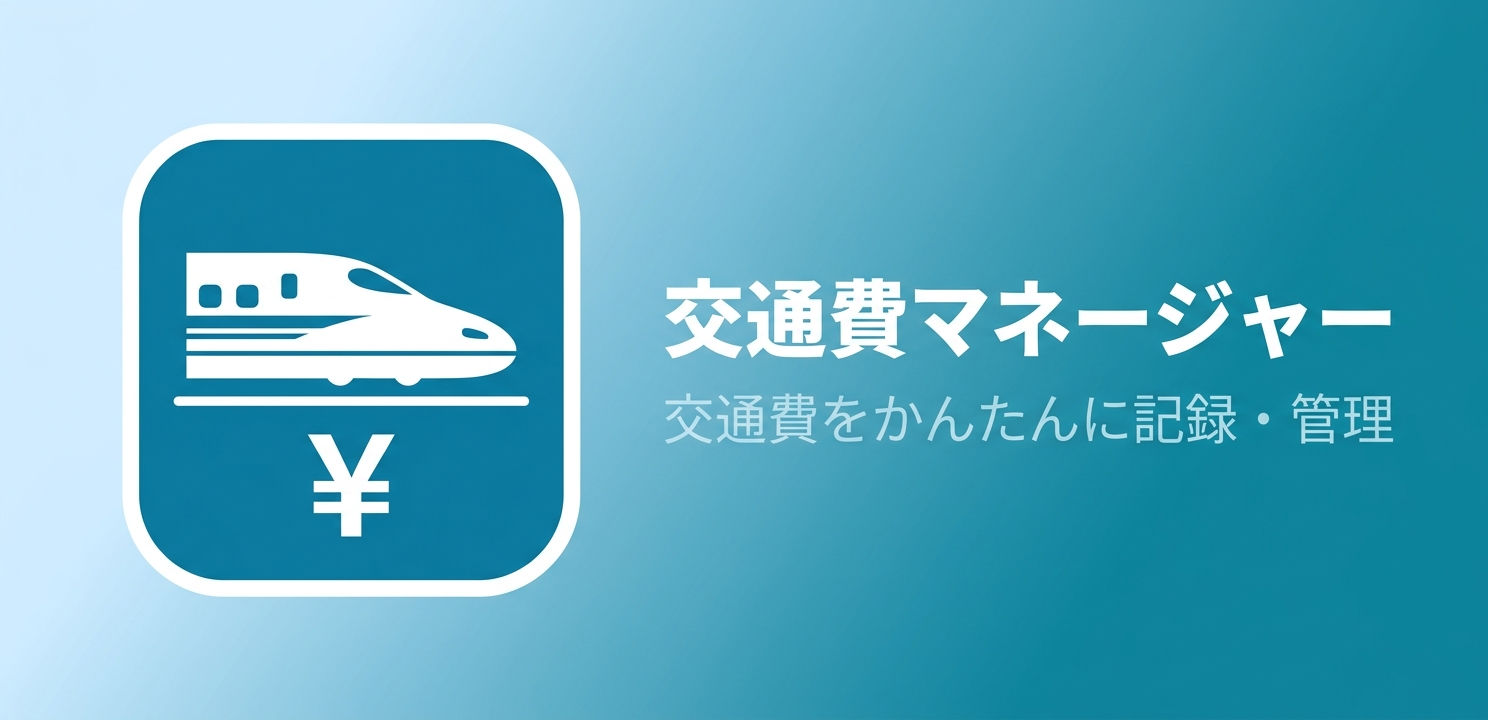
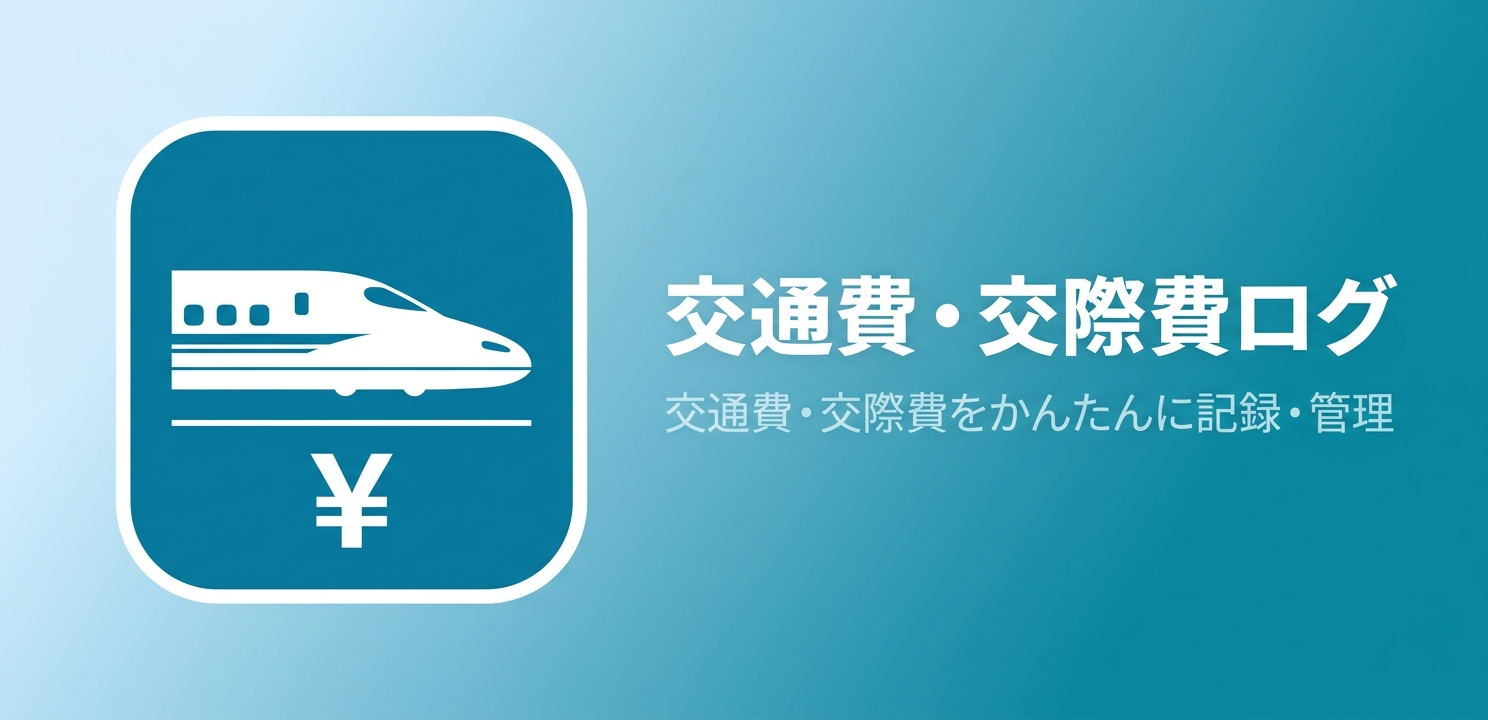
名前変更

Changed region(s): [[0.0618, 0.1528, 0.4019, 0.8556], [0.4328, 0.3667, 0.9583, 0.5194], [0.4328, 0.5194, 0.9583, 0.6417]]

diff --git a/scripts/generate-feature-graphic.js b/scripts/generate-feature-graphic.js
@@ -10,7 +10,7 @@ config({ path: resolve(__dirname, '../.env') });
 const ai = new GoogleGenAI({ apiKey: process.env.GEMINI_API_KEY });
 
 const prompt = `
-Create a feature graphic banner for "交通費マネージャー" (TransitLedger), a Japanese personal transit expense tracking app.
+Create a feature graphic banner for "交通費・交際費ログ" (TransitLedger), a Japanese personal expense tracking app for transit and entertainment expenses.
 
 Canvas: exactly 1024x500 pixels, landscape orientation.
 
@@ -18,13 +18,13 @@ Background: smooth horizontal gradient from light blue #E6F4FE on the left to te
 
 Left area (leftmost 40% of canvas, vertically centered):
   - A large rounded square (about 180x180px) with solid #0a7ea4 fill and white border (~4px)
-  - Inside the rounded square: a white flat shinkansen bullet train silhouette viewed from the side, aerodynamic nose pointing RIGHT
+  - Inside the rounded square: a white flat shinkansen bullet train silhouette viewed from the side. The train must face RIGHT — the pointed aerodynamic nose is on the RIGHT side, the tail is on the LEFT side. The train is moving rightward toward the text.
   - Below the train inside the square: a thin white horizontal line
   - Below the line: bold white ¥ symbol
 
 Right area (rightmost 55% of canvas, vertically centered, left-aligned):
-  - App name "交通費マネージャー" in large (52px) bold white sans-serif font, top line
-  - Tagline "交通費をかんたんに記録・管理" in smaller (26px) white sans-serif font, below app name, slight transparency or lighter weight
+  - App name "交通費・交際費ログ" in large (48px) bold white sans-serif font, top line
+  - Tagline "交通費・交際費をかんたんに記録・管理" in smaller (24px) white sans-serif font, below app name, slight transparency or lighter weight
 
 Style: flat design, clean, professional. No drop shadows, no complex textures. Safe zone: keep all text and logo at least 40px from any edge.`;
 

diff --git a/docs/privacy-policy.html b/docs/privacy-policy.html
@@ -3,7 +3,7 @@
 <head>
   <meta charset="UTF-8">
   <meta name="viewport" content="width=device-width, initial-scale=1.0">
-  <title>プライバシーポリシー - 交通費マネージャー</title>
+  <title>プライバシーポリシー - 交通費・交際費ログ</title>
   <style>
     * {
       box-sizing: border-box;
@@ -128,7 +128,7 @@
   <div class="container">
     <h1>プライバシーポリシー</h1>
     <p class="updated">最終更新日: 2026年3月23日</p>
-    <p class="intro">このプライバシーポリシーは、交通費マネージャー（以下「本アプリ」）のご利用に関して適用されます。</p>
+    <p class="intro">このプライバシーポリシーは、交通費・交際費ログ（以下「本アプリ」）のご利用に関して適用されます。</p>
 
     <hr>
 

diff --git a/docs/google-play-store-listing.md b/docs/google-play-store-listing.md
@@ -7,7 +7,7 @@ Google Play Console の「ストアの掲載情報」に貼り付けて使用す
 ## アプリ名（30文字以内）
 
 ```
-交通費・交際費マネージャー
+交通費・交際費ログ
 ```
 
 文字数: 10文字
@@ -29,7 +29,7 @@ Google Play Console の「ストアの掲載情報」に貼り付けて使用す
 > Play Console はMarkdownを描画しないため、以下のプレーンテキストをそのまま貼り付けること。
 
 ```
-交通費マネージャーは、日々の交通費や交際費をかんたんに記録・管理できる個人向け支出管理アプリです。
+交通費・交際費ログは、日々の交通費や交際費をかんたんに記録・管理できる個人向け支出管理アプリです。
 
 
 ■ こんな方におすすめ

diff --git a/docs/ios-testflight-build.md b/docs/ios-testflight-build.md
@@ -35,7 +35,7 @@ eas login
 2. 「マイ App」→「+」→「新規 App」をクリック
 3. 以下の情報を入力:
    - プラットフォーム: iOS
-   - 名前: 交通費マネージャー
+   - 名前: 交通費・交際費ログ
    - プライマリ言語: 日本語
    - バンドル ID: `com.kotsuhi.manager`
    - SKU: `kotsuhi-manager`（任意の一意な文字列）

diff --git a/docs/android-release-roadmap.md b/docs/android-release-roadmap.md
@@ -2,7 +2,7 @@
 
 ## 概要
 
-このドキュメントは「交通費マネージャー」Android アプリを Google Play Store に提出するまでの手順書です。
+このドキュメントは「交通費・交際費ログ」Android アプリを Google Play Store に提出するまでの手順書です。
 
 **アプリ情報**
 - パッケージ名: `com.kotsuhi.manager`

diff --git a/docs/privacy-policy.md b/docs/privacy-policy.md
@@ -2,7 +2,7 @@
 
 最終更新日: 2026年3月23日
 
-このプライバシーポリシーは、交通費マネージャー（以下「本アプリ」）のご利用に関して適用されます。
+このプライバシーポリシーは、交通費・交際費ログ（以下「本アプリ」）のご利用に関して適用されます。
 
 ---
 

diff --git a/requirements-mobile-mvp.md b/requirements-mobile-mvp.md
@@ -10,7 +10,7 @@
 
 ### 2.1 アプリ名
 
-交通費ログ
+交通費・交際費ログ
 
 ### 2.2 想定用途
 
